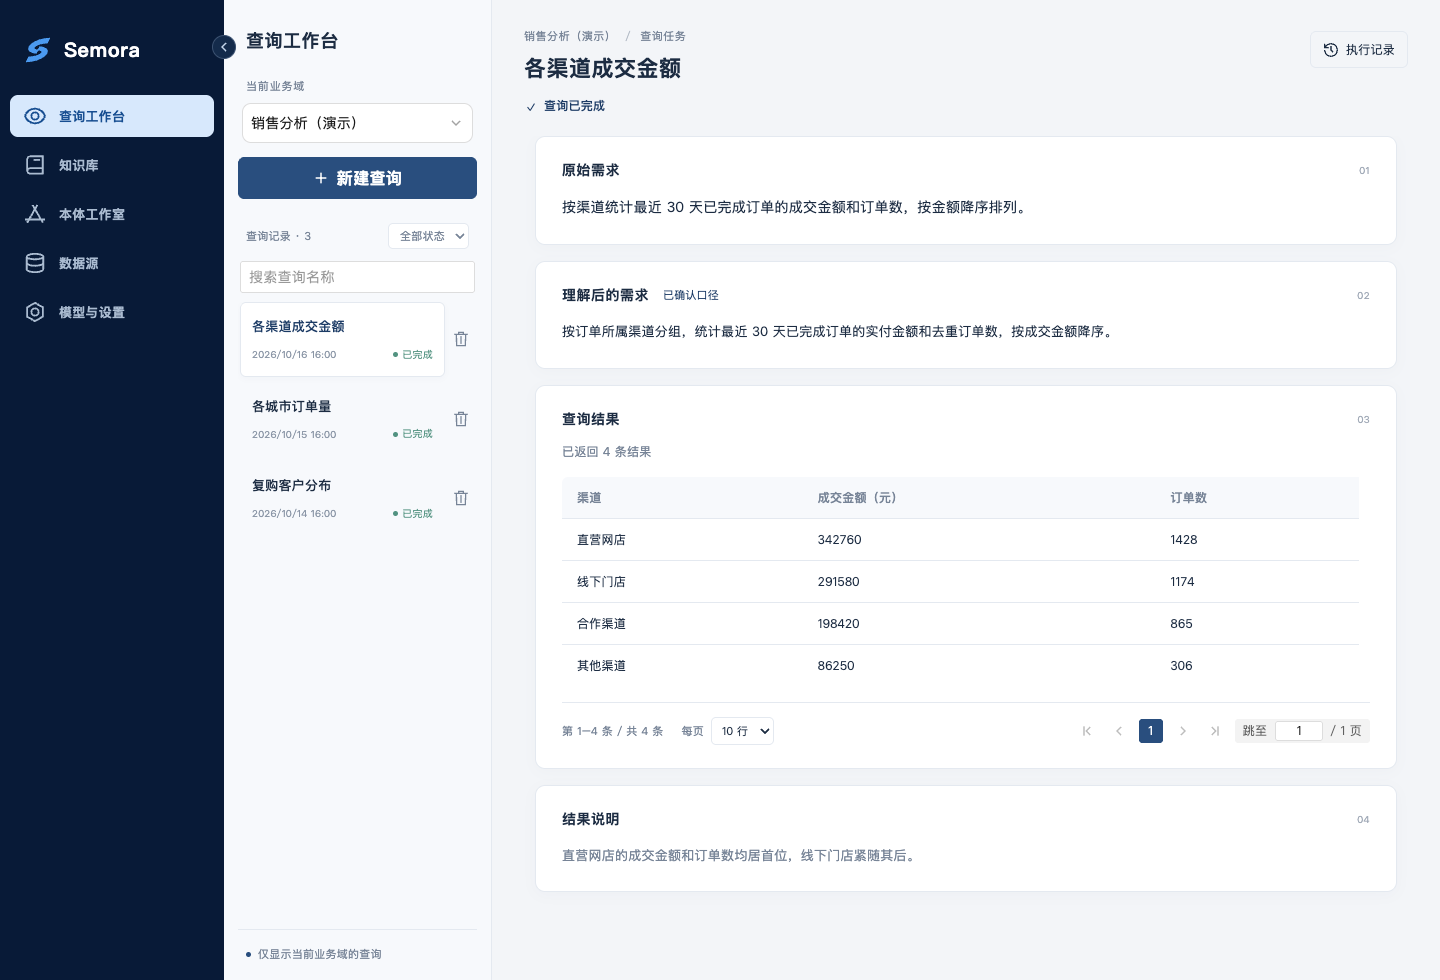
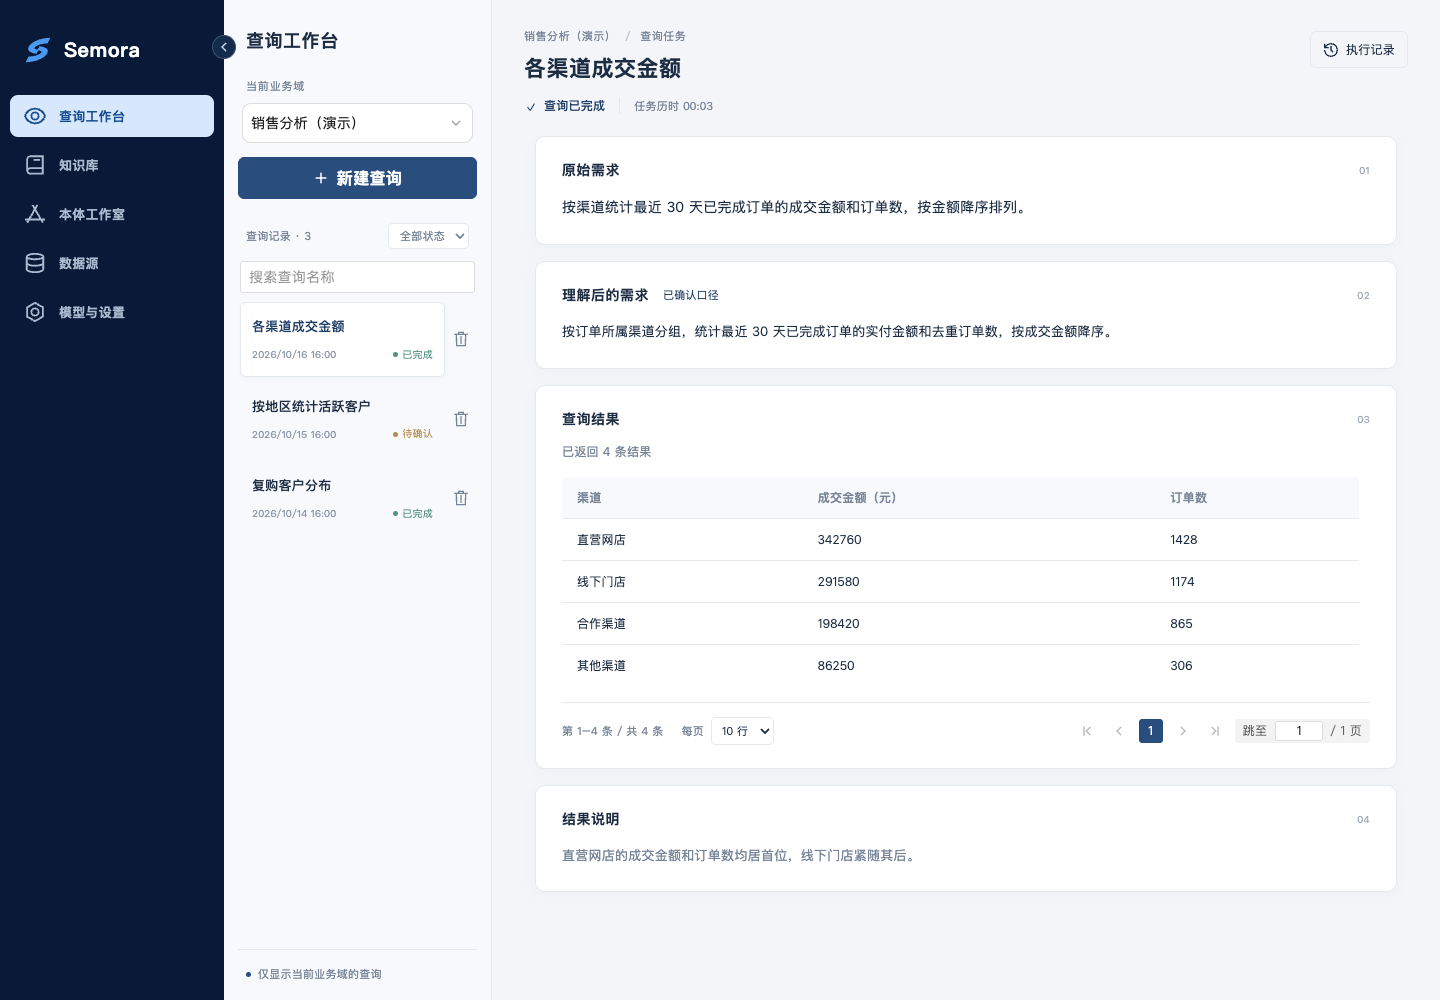
Show clarification, execution records, and data modeling in the demo

diff --git a/docs/DEMO.md b/docs/DEMO.md
@@ -2,10 +2,44 @@
 
 [English README](../README.md) · [简体中文 README](../README.zh-CN.md)
 
+All screenshots use synthetic data. The catalog and relationship counts are illustrative.
+
+所有截图均使用合成数据。表数和关联数仅用于演示。
+
 ## Query Workbench · 查询工作台
 
-This screenshot uses synthetic order data. The workbench shows the original request, interpreted requirements, query results, and a link to the execution record.
+View the original question, its interpreted requirements, and the results together. 在同一页查看原始需求、理解后的口径和查询结果。
 
-截图使用合成订单数据。工作台展示原始需求、理解后的需求和查询结果，并提供执行记录入口。
+<img src="images/workbench-demo.png" alt="Query Workbench showing sales by channel · 查询工作台展示各渠道成交额" width="900">
 
-<img src="images/workbench-demo.png" alt="Semora query workbench with synthetic sales data · 使用合成销售数据的查询工作台" width="900">
+### Clarification · 澄清业务口径
+
+Confirm how to define an active customer and which region field to use. 查询前确认活跃客户的定义和地区分组字段。
+
+<img src="images/clarification-demo.png" alt="Clarification choices for active customers and regions · 确认活跃客户和地区口径" width="900" loading="lazy">
+
+### Execution record · 执行记录
+
+Inspect the executed SQL and its result column mappings. 查看实际执行的 SQL 及结果列映射。
+
+<img src="images/execution-record-demo.png" alt="Execution record showing SQL · 执行记录中的 SQL" width="900" loading="lazy">
+
+## Data sources · 数据源
+
+### Connection setup · 数据源配置
+
+Configure a database connection and test it before adding the source. 填写连接信息，测试通过后添加数据源。
+
+<img src="images/datasource-config-demo.png" alt="PostgreSQL data source configuration dialog · PostgreSQL 数据源配置弹窗" width="900" loading="lazy">
+
+### Relationship discovery · 自动关联分析
+
+Run relationship analysis and review its results by status. 启动关联分析后，按状态查看已生效、待审核和已停用的关系。
+
+<img src="images/relationship-analysis-demo.png" alt="Discovered relationships with a synthetic count of 428 · 428 条合成关联的分析结果页" width="900" loading="lazy">
+
+## Ontology Studio · 本体工作室
+
+Organize sources into a business domain and manage cross-source relationships. 演示业务域绑定两个数据源，共 380 个表映射，并展示跨源关联的状态与数量。
+
+<img src="images/ontology-demo.png" alt="Ontology Studio with 380 synthetic table mappings · 含 380 个合成表映射的本体工作室" width="900" loading="lazy">
